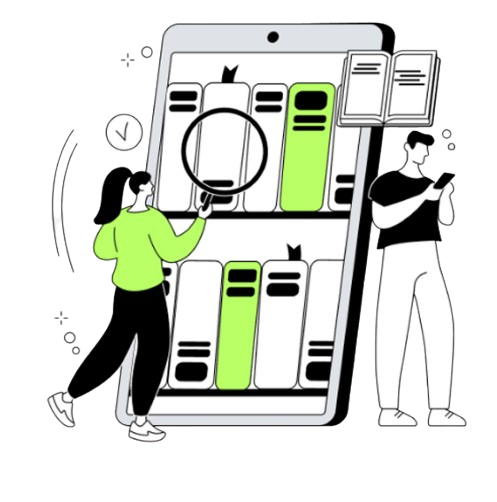
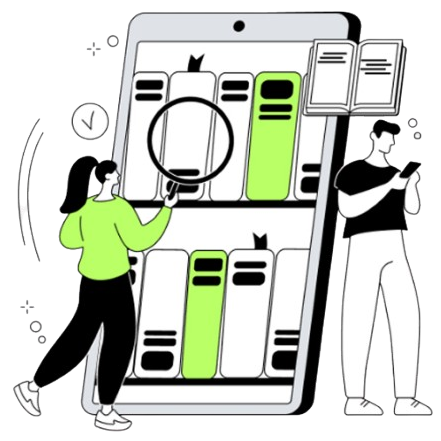
style: add margin, gap, font size.

diff --git a/week4/usecase.html b/week4/usecase.html
@@ -11,7 +11,7 @@
     <style>
         body {
             color: #191A23;
-            margin-top: 51px;
+            margin: 70px;
             font-family: "Space Grotesk", sans-serif;
         }
 
@@ -19,23 +19,21 @@
             display: flex;
             justify-content: space-between;
             font-size: 20px;
-
         }
 
-        .top div {
+        .topright div {
             align-items: center;
         }
 
         .topright {
             display: flex;
-            gap: 40px;
+            gap: 50px;
         }
 
         .panel {
             display: flex;
-            gap: 40px;
+            gap: 50px;
         }
-
 
         .request a {
             text-decoration: none;
@@ -51,14 +49,25 @@
             border-radius: 10px;
         }
 
-        .word h1 {
+        .middle {
+            display: flex;
+            gap: 100px;
+            background-color: #F3F3F3;
+            margin-top: 70px;
+            border-radius: 30px;
+            padding: 60px 95px;
+        }
+
+        .middle img {
+            width: 600px;
+        }
+
+        .middle h1 {
             font-size: 60px;
         }
 
-        .middle {
-            display: flex;
-            gap: 20px;
-            background-color: #F3F3F3;
+        .middle p {
+            font-size: 20px;
         }
     </style>
 </head>
@@ -83,7 +92,7 @@
     </div>
 
     <div class="middle">
-        <div class="illustration"><img src="image/illus.png" alt="">illustration</div>
+        <div class="illustration"><img src="image/illus.png" alt="illustration"></div>
         <div class="Word">
             <h1>Proven Success Stories</h1>
             <p>See how our innovative digital marketing strategies have transformed businesses. Whether through SEO,
@@ -93,7 +102,23 @@
     </div>
 
     <div class="bottom">
-        <div class="bottomleft"></div>
+        <div class="bottomleft">
+            <div class="bottomh1">
+                <h1>Featured Success Story</h1>
+            </div>
+            <div class="bottomh2">
+                <h2>Scaling Success for a Leading E-Commerce Brand </h2>
+            </div>
+            <div class="bottomp"></div>
+            <p>Through a comprehensive SEO and PPC strategy, we helped this e-commerce brand increase visibility,
+                drive traffic, and boost sales.
+            </p>
+            <div class="bottomread">
+                <div class="read">
+                    <img src="" alt="">
+                </div>
+            </div>
+        </div>
         <div class="bottomright"></div>
     </div>
 
